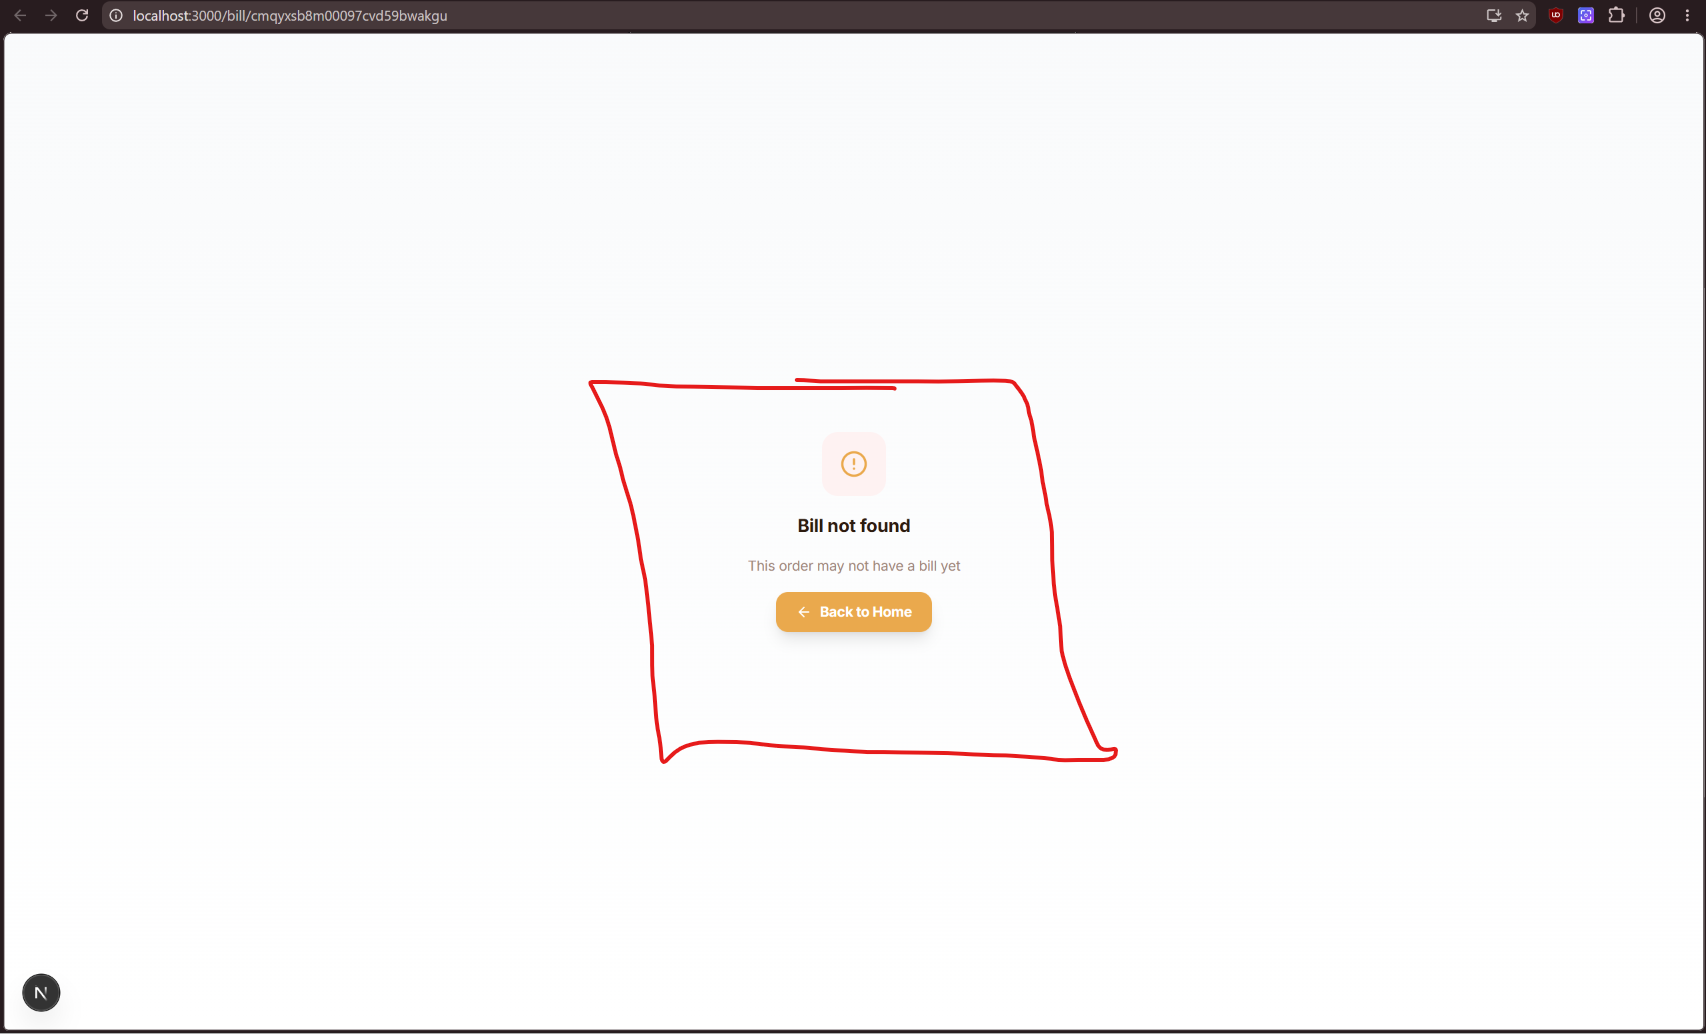
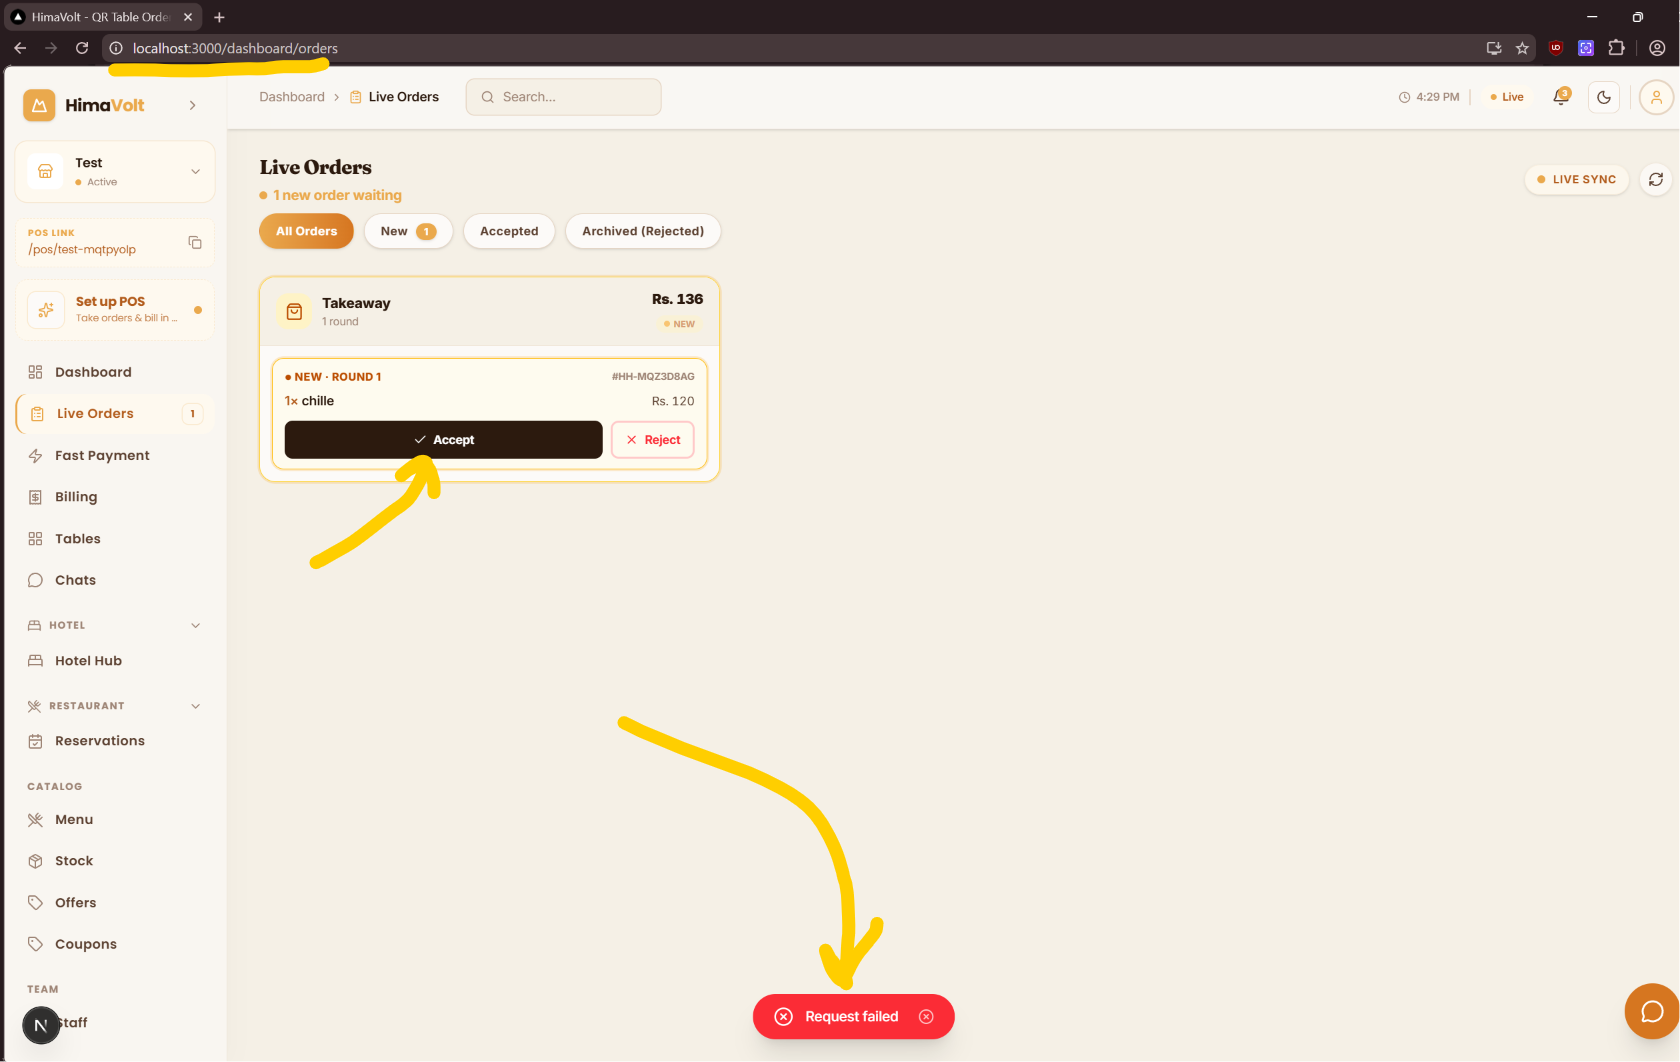
feat: enhance order management with improved round handling and UI updates

diff --git a/src/components/dashboard/LiveOrdersTab.tsx b/src/components/dashboard/LiveOrdersTab.tsx
@@ -1,6 +1,6 @@
 "use client";
 
-import { useState, useRef, useEffect, useCallback } from "react";
+import { useState, useRef, useEffect, useCallback, useMemo } from "react";
 import { motion, AnimatePresence } from "framer-motion";
 import {
   Clock,
@@ -68,9 +68,7 @@ const FILTER_OPTIONS: { value: LiveOrderStatus | "ALL"; label: string }[] = [
   { value: "ALL", label: "All Orders" },
   { value: "PENDING", label: "New" },
   { value: "ACCEPTED", label: "Accepted" },
-  
-  
-  
+  { value: "REJECTED", label: "Archived (Rejected)" },
 ];
 
 function PreparingClock() {
@@ -353,9 +351,7 @@ export default function LiveOrdersTab() {
   } = useLiveOrders();
   const { showToast } = useToast();
   const [selectedOrder, setSelectedOrder] = useState<LiveOrder | null>(null);
-  const [filterStatus, setFilterStatus] = useState<LiveOrderStatus | "ALL">(
-    "ALL",
-  );
+  const [filterStatus, setFilterStatus] = useState<LiveOrderStatus | "ALL" | "ARCHIVED">("PENDING");
   const [busyOrderIds, setBusyOrderIds] = useState<Set<string>>(new Set());
 
   // Accept / reject one ordering round (initial order or an add-on batch). The
@@ -388,9 +384,14 @@ export default function LiveOrdersTab() {
     [selectedRestaurant?.id, refresh, showToast],
   );
 
-  const filtered = orders.filter(
-    (o) => filterStatus === "ALL" || o.status === filterStatus,
-  );
+  const filtered = useMemo(() => {
+    return orders.filter((o) => {
+      if (filterStatus === "ALL") return o.status !== "REJECTED" && !(o.status === "ACCEPTED" && o.payment?.status === "COMPLETED");
+      if (filterStatus === "ARCHIVED") return o.status === "REJECTED" || (o.status === "ACCEPTED" && o.payment?.status === "COMPLETED");
+      if (filterStatus === "ACCEPTED") return o.status === "ACCEPTED" && o.payment?.status !== "COMPLETED";
+      return o.status === filterStatus;
+    });
+  }, [orders, filterStatus]);
 
   const newCount = orders.filter((o) => o.status === "PENDING").length;
 
@@ -480,7 +481,7 @@ export default function LiveOrdersTab() {
             No orders matching this status
           </div>
         </div>
-      ) : (
+      ) : filterStatus !== "ARCHIVED" ? (
         <TableOrderBoard
           orders={filtered}
           currency={cur}
@@ -488,10 +489,7 @@ export default function LiveOrdersTab() {
           onAcceptRound={(o, roundAt) => roundAction(o.id, roundAt, "ACCEPT")}
           onRejectRound={(o, roundAt) => roundAction(o.id, roundAt, "REJECT")}
         />
-      )}
-
-      {/* Legacy flat table/list — superseded by TableOrderBoard above. */}
-      {false && (
+      ) : (
       <div>
         <div className="hidden md:block overflow-x-auto overflow-y-hidden rounded-2xl border border-[var(--border)]/60 bg-[var(--canvas)]/70 backdrop-blur-xl shadow-sm">
           <table className="w-full text-sm">
@@ -614,15 +612,20 @@ export default function LiveOrdersTab() {
                         </div>
                       </td>
                       <td className="px-5 py-4">
-                        <OrderActions
-                          order={order}
-                          busy={updatingIds.has(order.id)}
-                          onAccept={() => acceptOrder(order.id)}
-                          onReject={(reason) => rejectOrder(order.id, reason)}
-                          
-                          
-                          
-                        />
+                        {order.status === "REJECTED" ? (
+                          <span className="text-[11px] font-bold text-red-500">Rejected</span>
+                        ) : (
+                          <button
+                            onClick={(e) => {
+                              e.stopPropagation();
+                              openBillWindow(order.id);
+                            }}
+                            className="inline-flex items-center gap-1.5 rounded-lg bg-[var(--accent)] px-3 py-1.5 text-[11px] font-bold text-white transition-all hover:bg-[var(--accent-hover)]"
+                          >
+                            <ExternalLink className="h-3 w-3" />
+                            View Bill
+                          </button>
+                        )}
                       </td>
                     </motion.tr>
                   ))
@@ -688,15 +691,24 @@ export default function LiveOrdersTab() {
                     </div>
                   ))}
                 </div>
-                <OrderActions
-                  order={order}
-                  busy={updatingIds.has(order.id)}
-                  onAccept={() => acceptOrder(order.id)}
-                  onReject={(reason) => rejectOrder(order.id, reason)}
-                  
-                  
-                  
-                />
+                {order.status === "REJECTED" ? (
+                  <div className="mt-3 flex justify-end">
+                    <span className="text-[11px] font-bold text-red-500">Rejected</span>
+                  </div>
+                ) : (
+                  <div className="mt-3 flex justify-end">
+                    <button
+                      onClick={(e) => {
+                        e.stopPropagation();
+                        openBillWindow(order.id);
+                      }}
+                      className="inline-flex w-full items-center justify-center gap-1.5 rounded-lg bg-[var(--accent)] px-3 py-2.5 text-[12px] font-bold text-white transition-all hover:bg-[var(--accent-hover)]"
+                    >
+                      <ExternalLink className="h-3.5 w-3.5" />
+                      View Bill
+                    </button>
+                  </div>
+                )}
               </motion.div>
             ))}
           </AnimatePresence>

diff --git a/src/app/api/restaurants/[id]/orders/[orderId]/round/route.ts b/src/app/api/restaurants/[id]/orders/[orderId]/round/route.ts
@@ -81,11 +81,23 @@ export async function PATCH(
   });
   if (!order) return NextResponse.json({ error: "Not found" }, { status: 404 });
 
+  // Use a 1000ms window because stringified ISO dates can lose sub-millisecond
+  // precision when bouncing through the DB and JSON APIs.
   const roundItems = order.items.filter(
-    (it) => it.createdAt.getTime() === roundMs,
+    (it) => Math.abs(it.createdAt.getTime() - roundMs) < 1000,
   );
   if (roundItems.length === 0) {
-    return NextResponse.json({ error: "Round not found" }, { status: 404 });
+    return NextResponse.json(
+      { 
+        error: "Round not found", 
+        debug: {
+          requestedRoundMs: roundMs,
+          requestedRoundAt: roundAt,
+          availableRounds: order.items.map(it => it.createdAt.getTime())
+        }
+      }, 
+      { status: 404 }
+    );
   }
   const roundItemIds = roundItems.map((it) => it.id);
 
@@ -95,7 +107,7 @@ export async function PATCH(
     (min, it) => Math.min(min, it.createdAt.getTime()),
     Number.POSITIVE_INFINITY,
   );
-  const isFirstRound = roundMs === earliestMs;
+  const isFirstRound = Math.abs(roundMs - earliestMs) < 1000;
   const isWholeOrder = roundItems.length === order.items.length;
 
   if (action === "ACCEPT") {
@@ -169,7 +181,7 @@ export async function PATCH(
     if (isWholeOrder && order.status === "PENDING") {
       await db.order.update({
         where: { id: orderId },
-        data: { status: "REJECTED", rejectedAt: new Date() },
+        data: { status: "REJECTED" },
       });
       db.payment
         .updateMany({
@@ -218,5 +230,6 @@ export async function PATCH(
       },
     },
   });
+  
   return NextResponse.json(updated);
 }

diff --git a/src/components/modals/DineInRequestModal.tsx b/src/components/modals/DineInRequestModal.tsx
@@ -19,6 +19,7 @@ import {
 import { type LiveOrder } from "@/context/LiveOrdersContext";
 import { useToast } from "@/context/ToastContext";
 import { formatPrice } from "@/lib/currency";
+import { useRestaurant } from "@/context/RestaurantContext";
 
 export default function DineInRequestModal({
   order,
@@ -38,6 +39,7 @@ export default function DineInRequestModal({
   currency?: string;
 }) {
   const { showToast } = useToast();
+  const { selectedRestaurant } = useRestaurant();
   const [showRejectReason, setShowRejectReason] = useState(false);
   const [rejectReason, setRejectReason] = useState("");
 
@@ -259,11 +261,17 @@ export default function DineInRequestModal({
               ) : (
                 <div className="flex gap-2">
                   <button
-                    onClick={handlePrint}
+                    onClick={() => {
+                      if (order) {
+                        import("@/lib/print-bill").then((mod) =>
+                          mod.openBillWindow(order.id)
+                        );
+                      }
+                    }}
                     className="flex flex-1 items-center justify-center gap-1.5 rounded-xl bg-[var(--surface)] py-3.5 text-sm font-bold text-[var(--text-2)] hover:bg-[var(--surface-alt)] transition-all"
                   >
                     <Printer className="h-4 w-4" />
-                    Print Receipt
+                    View Bill
                   </button>
                   <button
                     onClick={onClose}

diff --git a/test-update.js b/test-update.js
@@ -1,0 +1,55 @@
+const { PrismaClient } = require('./src/generated/prisma');
+const prisma = new PrismaClient();
+
+async function main() {
+  const orderId = 'cmqz3un9x0002p8vdwz24vlvs'; // Replace with a valid order ID
+  const id = 'cmqtpypqh0000z8vd7869i4wr'; // Replace with valid restaurant ID
+  
+  console.log("Fetching order...");
+  const order = await prisma.order.findFirst({
+    where: { id: orderId, restaurantId: id },
+    select: {
+      id: true,
+      orderNo: true,
+      status: true,
+      items: {
+        select: {
+          id: true,
+          menuItemId: true,
+          quantity: true,
+          createdAt: true,
+        },
+      },
+    },
+  });
+
+  if (!order) {
+    console.log("Order not found");
+    return;
+  }
+  console.log("Order found:", order.orderNo);
+  
+  const roundItemIds = order.items.map(it => it.id);
+  console.log("Updating order items...");
+
+  try {
+    await prisma.order.update({
+      where: { id: orderId },
+      data: {
+        status: "ACCEPTED",
+        acceptedAt: new Date(),
+        items: {
+          updateMany: {
+            where: { id: { in: roundItemIds } },
+            data: { kitchenStatus: "ACCEPTED" },
+          },
+        },
+      },
+    });
+    console.log("Update successful!");
+  } catch (err) {
+    console.error("Update failed:", err.message);
+  }
+}
+
+main().catch(console.error).finally(() => prisma.$disconnect());

diff --git a/test-patch.js b/test-patch.js
@@ -1,0 +1,27 @@
+const { PrismaClient } = require('./src/generated/prisma');
+const prisma = new PrismaClient();
+
+async function main() {
+  const o = await prisma.order.findUnique({
+    where: { id: 'cmqz3un9x0002p8vdwz24vlvs' },
+    include: { items: true }
+  });
+  if (!o) {
+    console.log("Order not found");
+    return;
+  }
+  const roundAt = o.items[0].createdAt.toISOString();
+  console.log("Using roundAt:", roundAt);
+  
+  const res = await fetch("http://localhost:3000/api/restaurants/cmqtpypqh0000z8vd7869i4wr/orders/cmqz3un9x0002p8vdwz24vlvs/round", {
+    method: "PATCH",
+    headers: { "Content-Type": "application/json" },
+    body: JSON.stringify({ action: "ACCEPT", roundAt })
+  });
+  
+  const text = await res.text();
+  console.log("Status:", res.status);
+  console.log("Body:", text);
+}
+
+main().catch(console.error).finally(() => prisma.$disconnect());

diff --git a/src/lib/orders/create-order.ts b/src/lib/orders/create-order.ts
@@ -154,7 +154,6 @@ export async function createOrder(
                   price: it.price,
                   menuItemId: it.menuItemId,
                   kitchenStatus: "PENDING",
-                  createdAt: batchAt,
                   ...(it.addOns ? { addOns: it.addOns } : {}),
                   ...(it.prepTimeSnapshot
                     ? { prepTimeSnapshot: it.prepTimeSnapshot }
@@ -337,7 +336,6 @@ export async function appendToOrder(
           price: it.price,
           menuItemId: it.menuItemId,
           kitchenStatus: "PENDING",
-          createdAt: batchAt,
           ...(it.addOns ? { addOns: it.addOns } : {}),
           ...(it.prepTimeSnapshot
             ? { prepTimeSnapshot: it.prepTimeSnapshot }

diff --git a/src/lib/db.ts b/src/lib/db.ts
@@ -3,7 +3,7 @@ import { PrismaPg } from "@prisma/adapter-pg";
 import { PrismaClient } from "@/generated/prisma";
 
 const globalForPrisma = globalThis as unknown as {
-  prisma: PrismaClient | undefined;
+  prisma_v2: PrismaClient | undefined;
 };
 
 // Retry only true transient drops. Aggressive retries amplify pool-saturation
@@ -87,10 +87,10 @@ function createPrismaClient() {
 }
 
 export function getDb() {
-  if (!globalForPrisma.prisma) {
-    globalForPrisma.prisma = createPrismaClient();
+  if (!globalForPrisma.prisma_v2) {
+    globalForPrisma.prisma_v2 = createPrismaClient();
   }
-  return globalForPrisma.prisma;
+  return globalForPrisma.prisma_v2;
 }
 
 export const db = new Proxy({} as PrismaClient, {

diff --git a/src/app/api/restaurants/[id]/orders/[orderId]/route.ts b/src/app/api/restaurants/[id]/orders/[orderId]/route.ts
@@ -151,7 +151,6 @@ export async function PATCH(
 
   const timestamps: Record<string, Date> = {};
   if (status === "ACCEPTED") timestamps.acceptedAt = new Date();
-  if (status === "REJECTED") timestamps.rejectedAt = new Date();
 
   const order = await db.order.update({
     where: { id: orderId },
